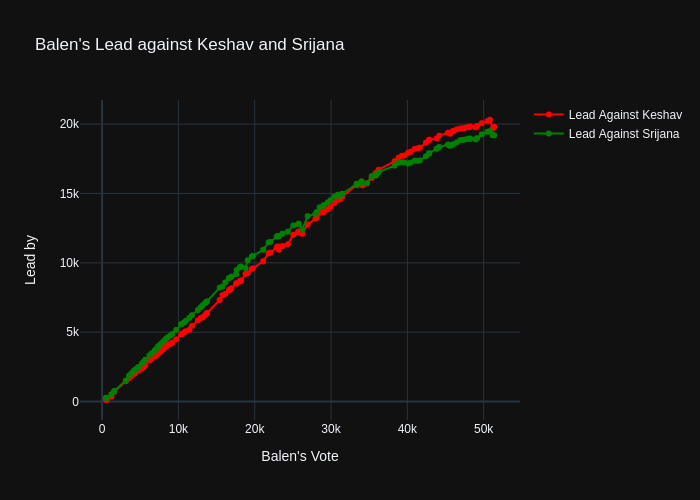
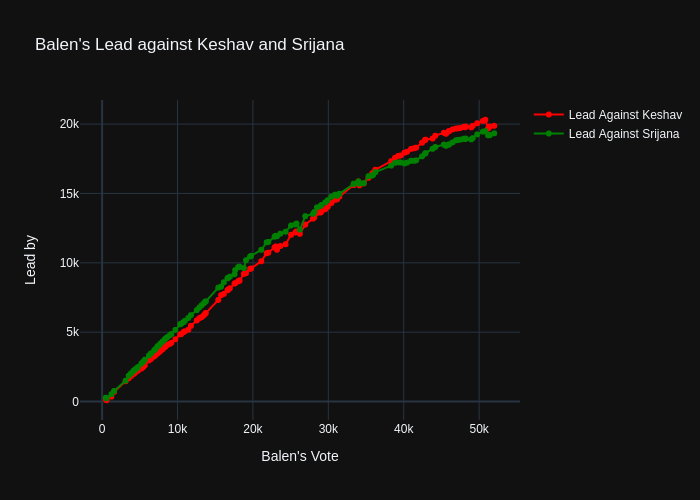
add data

diff --git a/README.md b/README.md
@@ -1,4 +1,4 @@
-## Last Update: 5/24/2022 15:06
+## Last Update: 5/24/2022 14:44
 
 ## Balen's Lead against Keshav Sthapit and Srijana Singh
 ![ScreenShot](final.jpg)
